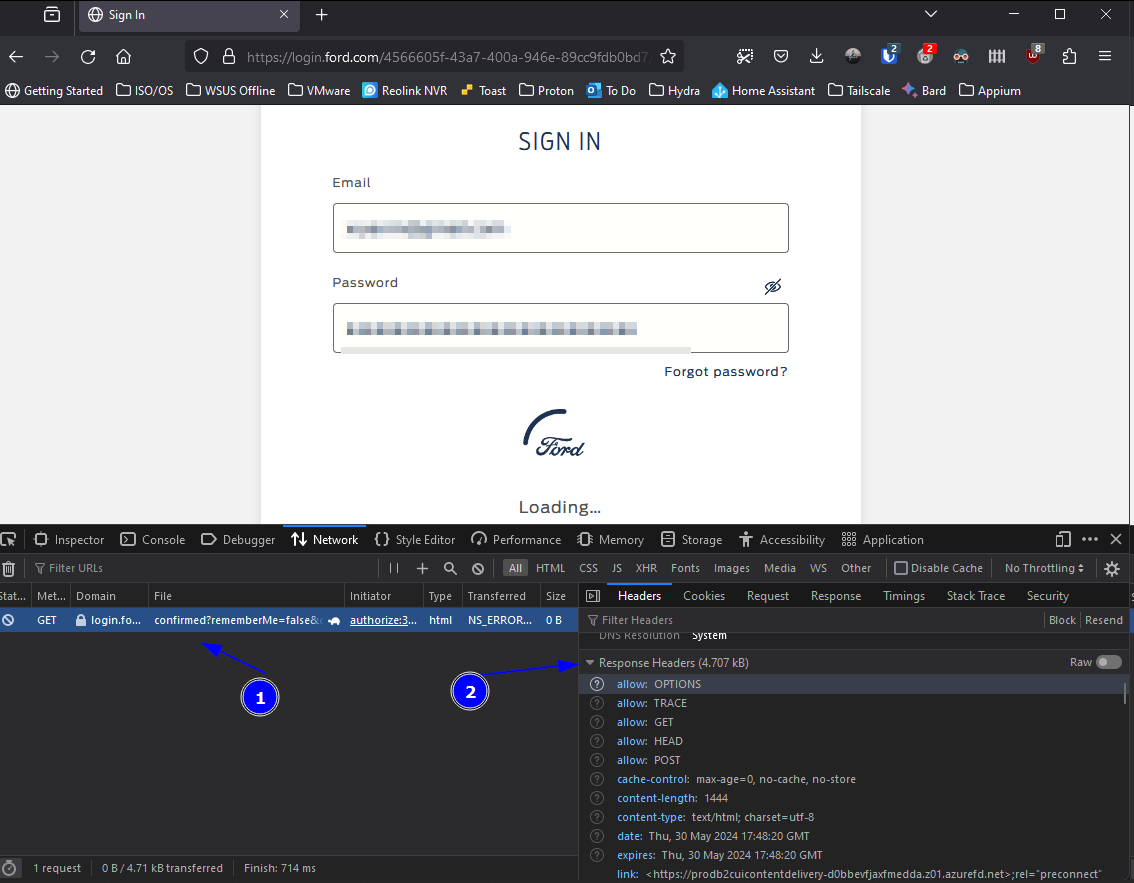
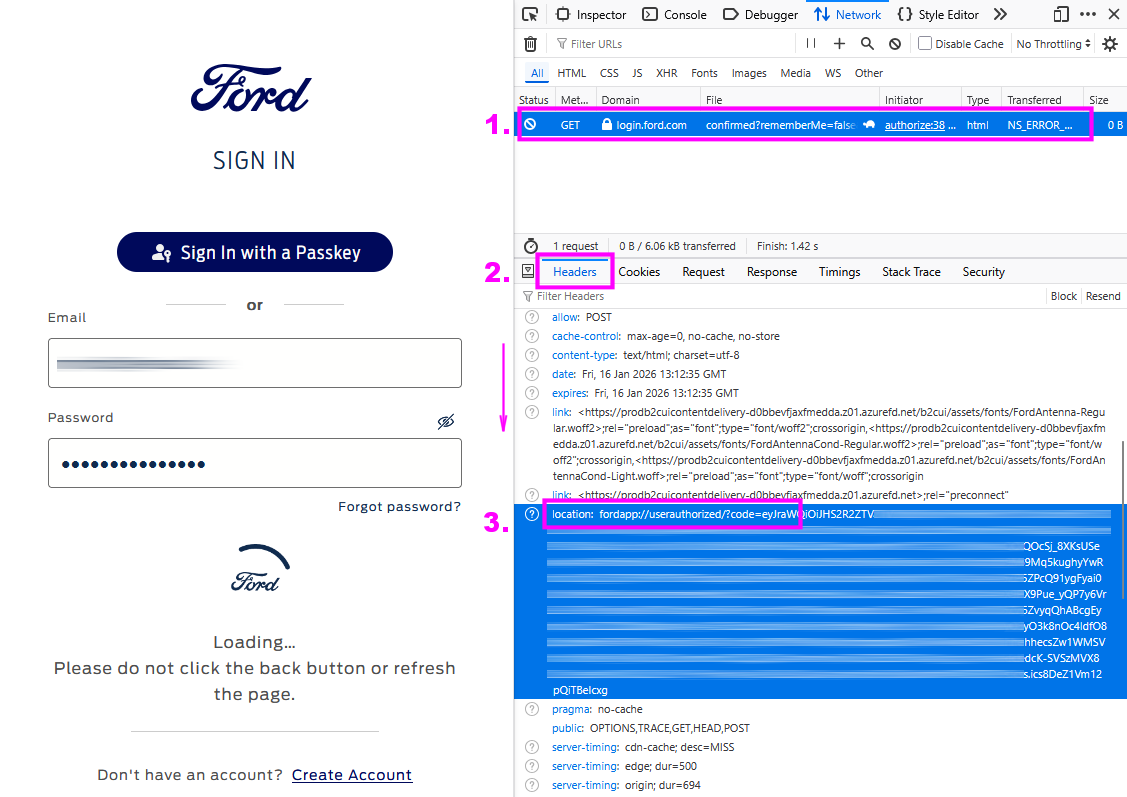
updated Firefox Docu

diff --git a/doc/OBTAINING_TOKEN.md b/doc/OBTAINING_TOKEN.md
@@ -1,8 +1,8 @@
 # Half-manual Login Flow
-### This method does require some manual steps, **including the usage of the developer tools!** of your browser
+### This method does require some manual steps, **including the usage of the developer tools!** of your browser (running on a Desktop/Laptop - using a mobile device will __not__ work!)
 
 > [!WARNING]
-> Although this has been tested multiple times (in January–June 2025), It can't be guaranteed the method will last as Ford is consistently making changes!
+> Although this has been tested multiple times (in January–June 2025 and re-tested in January 2026), It can't be guaranteed the method will last as Ford is consistently making changes!
 
 > [!NOTE]
 > This process requires [at least the 2025.10.2 version](https://github.com/marq24/ha-fordpass/releases/tag/2025.10.2) of this fordpass integration.
@@ -19,30 +19,57 @@
 1. Copy the URL that has been generated and paste it in your additional/separate browser. You might like to use a private/incognito window for this.
 
 > [!IMPORTANT]
+> You must do this on a Destop/Laptop browser that has Developer tools available. __Do NOT try__ to do this with your __tablet or phone__.
+> 
 > Ensure you have enabled the Developer tools before pressing "log in" as you will be required to capture a header once logged in!
 > - [:link: Chromium based dev tools helper (Chrome / Edge)](./DEV-TOOLS.md)
 >
-> As _alternative_, you might also like to use Firefox (but I __can not recommend__ this, since plenty of users have issues when using Firefox):
+> As _an alternative_, you might also like to use Firefox - but the capturing of the URL works slightly different than described here – please refer to the Firefox specific instructions.:
 > - [:link: Firefox dev tools helper](./DEV-TOOLS.md#firefox)
 
 
 ![image](./../images/002.png)
 
-2. In your second/separate browser (where you paste the URL), the Ford Login dialog should be displayed. 
+2. In your second/separate browser (where you paste the URL), the Ford Login dialog should be displayed.<br/><br/>
 
-3. Enter your FordPass credentials and click `Sign In`.
+3. __IMPORTANT__: Now open the developer Tools of your desktop/laptop browser and select the __Network__ tab as the active view.
+
+   __Windows/Linux:__
+   
+      - Press __F12__, or
+         - Right-click anywhere on the page → __"Inspect"__, or
+         - Press __Ctrl+Shift+I__
+
+   __Mac:__
+   
+      - Press __Cmd+Option+I__, or
+         - Right-click anywhere on the page → __"Inspect Element"__
+
+   <br/>A panel will appear at the bottom or side of your browser window.
+   
+   <br/>__Find the Network Tab__
+
+      1. Look at the top of the developer tools panel
+      2. Click on the __"Network"__ tab
+         - It might be between other tabs like "Elements", "Console", "Sources"
+   <br/><br/>
+ 
+4. Enter your FordPass credentials and click `Sign In`.
 > [!NOTE]
 > After you have pressed the login button, the Ford Login website will just show a spinner and will not continue to load — this is the intended behavior! At this point you are able to obtain the code by using the browser tools (see next step 4).
 
 ![webrequst](./../images/003a.png)
 
-4. Now you must use the browser tools and select the `Network tab` of the web console and view the headers section.
+5. Now look into the `Network tab` of the Browsers developer tools you just have opened in step 3. In the following the Chrome/Egde method is described – for Firefox please refer to the Firefox specific instructions linked above]
    
-   - The last request (probably already showed in red) is the one we are interested in... Since this last request contains the code we must capture for the integration, it should start with `userauthorized/...`
-   - You are looking for the contents of the "Location Header" as shown in the pic below
-   - The output should look similar to the following string, starting with `fordapp://` (or `lincolnapp://`):
+   - The last request (probably already showed in red) is the one we are interested in... Since this last request contains the code we must capture for the integration.
+   - Do a right-click on that line that should start with `code?=...` (in the _Name_ Column)
+   - From the context menu select __Copy >__ (which will open another sub-menu)
+   - From the sub-menu select __Copy URL__
+    
+   - The copied content should look similar to the following string, starting with `fordapp://` (or `lincolnapp://`):
    - ```fordapp://userauthorized/?code=eyJraWQiOiItSm9pdi1OX1ktUWNsa***************************```
-   - **Ensure you capture the entire string (copy the raw output and not the wrapped text)** and enter it into the text box of the home assistant setup dialog.
+   - **Ensure you capture the entire string (copy the raw output and not the wrapped text)**
    - You then can close the Ford login browser window 
 
 > [!NOTE]
@@ -52,4 +79,4 @@
 
 
 ### **Step III:** 
-- Once you've entered the copied token back in the home assistant integration setup dialog the integration should go off and get you a new set of tokens and then ask what vehicles you want to add.
+- Once you've entered the full token request URL token back in the home assistant integration setup dialog, the integration should go off and get you a new set of tokens and then ask what vehicles you want to add.

diff --git a/doc/DEV-TOOLS.md b/doc/DEV-TOOLS.md
@@ -1,6 +1,6 @@
 ## Chromium Based (Chrome / Edge) 
 
-❗Photos are taken in Google Chrome. Edge will look differently but the same steps apply
+❗Photos are taken in Google Chrome. Edge will look different but the same steps apply
 
 > [!NOTE]
 > It is recommended to disable any ad-blockers or extensions that might interfere with this process.  
@@ -37,18 +37,8 @@ Alternatively, you can use a private window.
 
 ## Firefox
 
-> [!WARNING]
-> Even if Firefox support developer tools by pressing F12 on the keyboard, for some reason the logging of request URL's does not work in a similar way then with chrome based browsers.
-> 
-> Technically it is also possible to make use of Firefox to capture the _required_ token URL via the developer tools - but for your mental safety please consider using a different browser for this operation.
-
-__I will keep the instructions for Firefox here as reference - but let me repeat, that I recommend to use a chrome based browser to perform this operation.__
-
----
-### Just as reference, if you really want to give it a try with Firefox 
-
 > [!NOTE]
-> It is recommended to disable any ad-blockers or extension that might interfere with this process. Alternatively, you can use a private window.  
+> It is recommended to disable any ad-blockers or extensions that might interfere with this process. Alternatively, you can use a private window.  
 Users have also reported issues using Firefox specifically.  
 **If you're having trouble using Firefox it is recommended to try using a Chromium based browser.**
 
@@ -56,19 +46,20 @@ Users have also reported issues using Firefox specifically.
 1. Open developer tools by pressing F12 on the keyboard
 2. Navigate to the URL provided through HomeAssistant
 
-![image](./../images/008.png)
-
 #### **Step 2:**
 1. Enter your credentials to login to Ford with the developer tools opened
 2. Press *Sign In*
-3. Select the item populated under Network (Item 1 in the photo below)
+3. Now navigate to the Network tab within your browser's developer tools and search for an entry (likely only one exists), which is starts with `?conmfirmed`. and then click on this item.
    > This will open a new section
+
+<table><tr><td><img src="./../images/008.png" width="675" /></td></tr></table>
+
 4. In the `Headers` tab, scroll down until you find `Response Headers` (Item 2 in the photo below)
 
-![image](./../images/009.png)
+<table><tr><td><img src="./../images/009.png" width="675" /></td></tr></table>
 
-5. Find the `Location` section and copy the entire string.
+5. Find the `Location` section (Item 3 in the photo) and "__Copy Value__" via the context menu.
 
-![image](./../images/010.png)
+<table><tr><td><img src="./../images/010.png" width="375" /></td></tr></table>
 
 6. Proceed with installation
